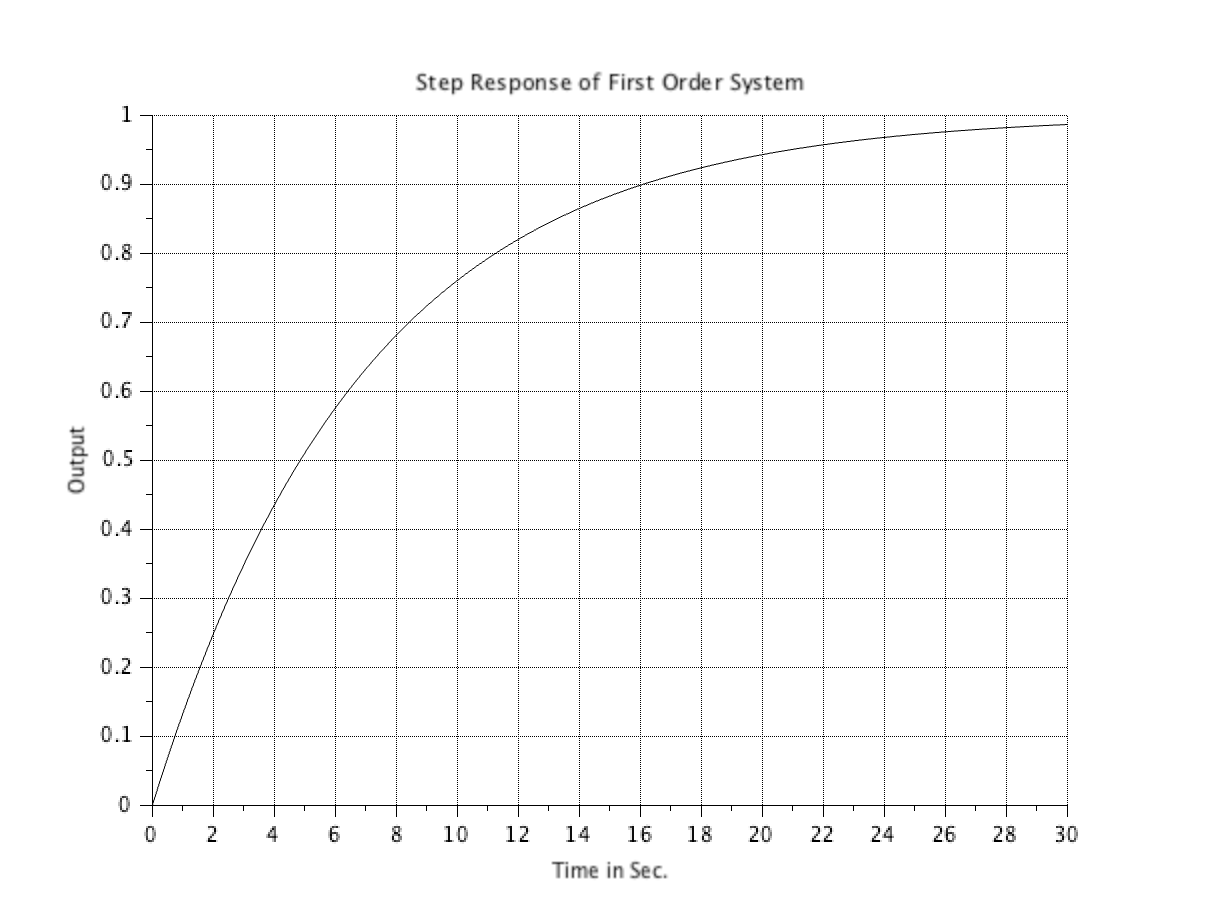
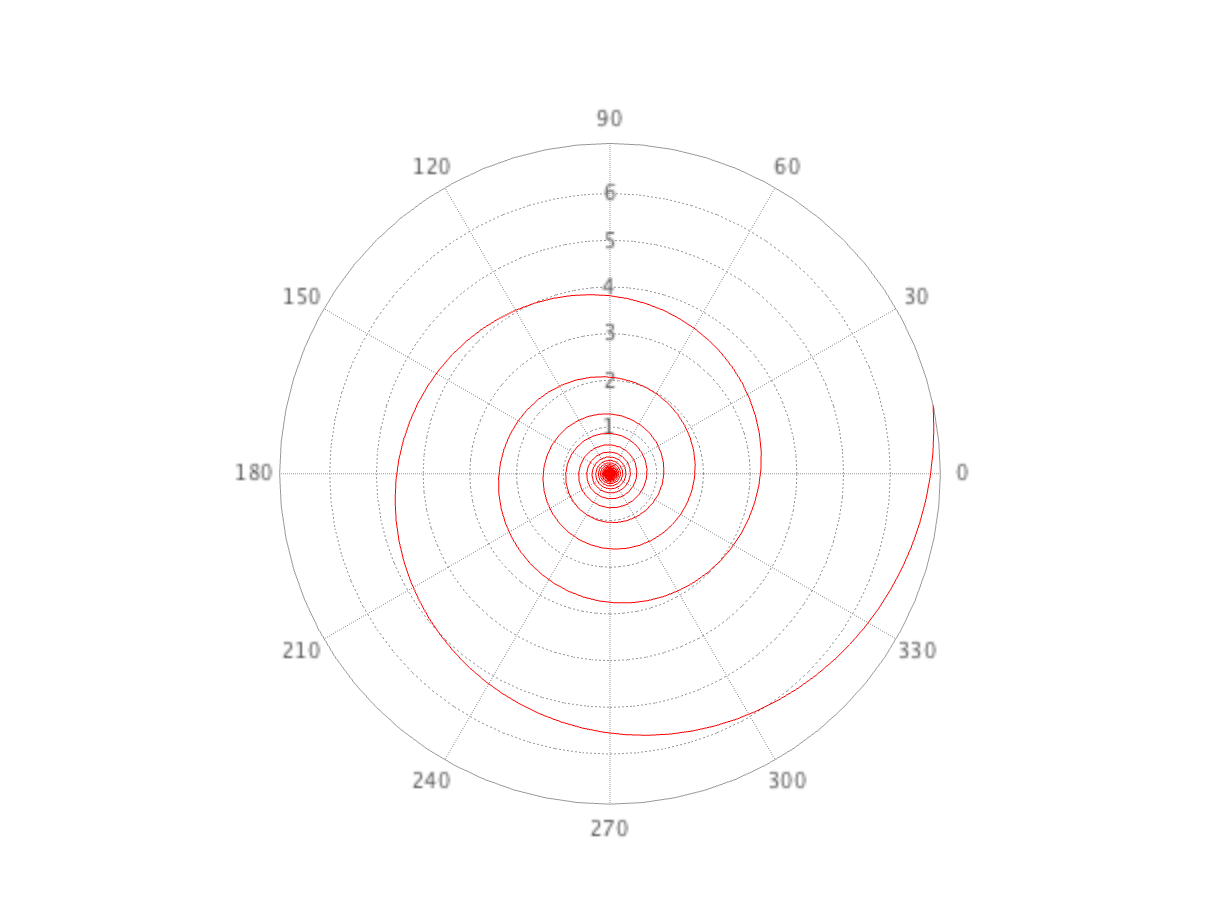
updated on 03 june 2026

diff --git a/templates/home.html b/templates/home.html
@@ -113,7 +113,11 @@
             <h3>24/7</h3>
             <p>V-Lab Accessibility</p>
         </div>
-
     </section>
 
+{% include 'footer.html' %}
 </div>
+
+</body>
+
+</html>
